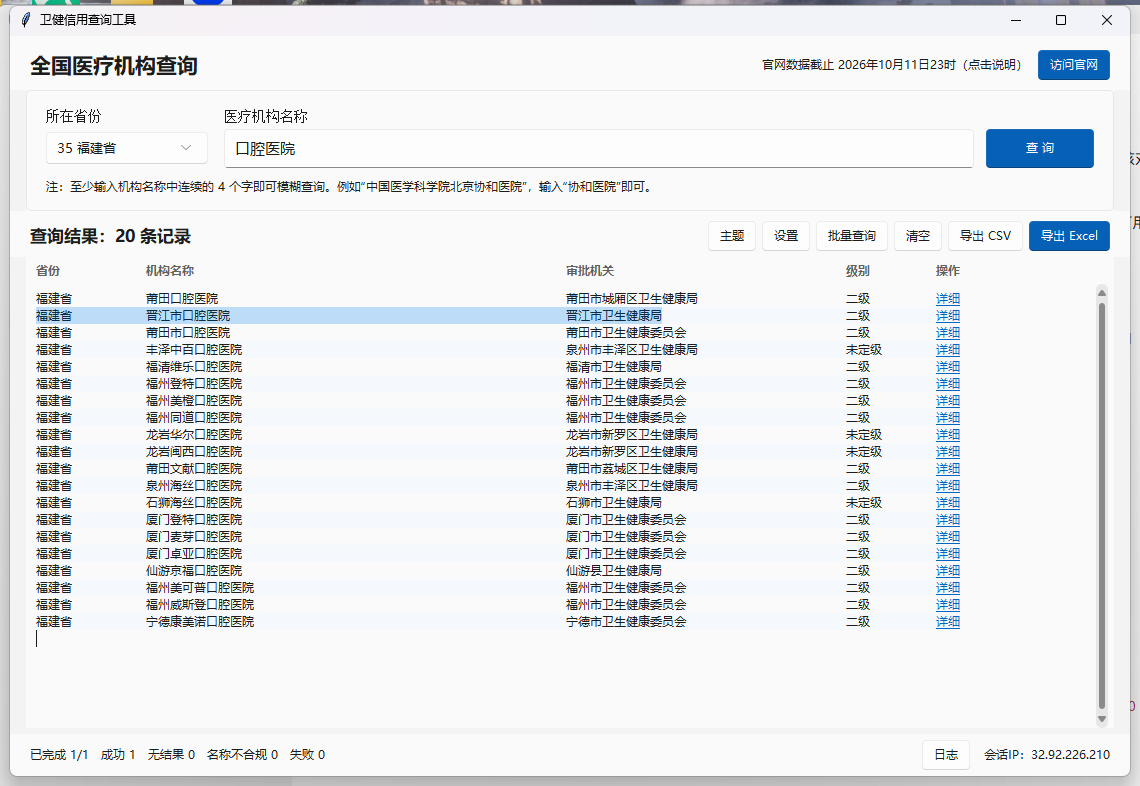
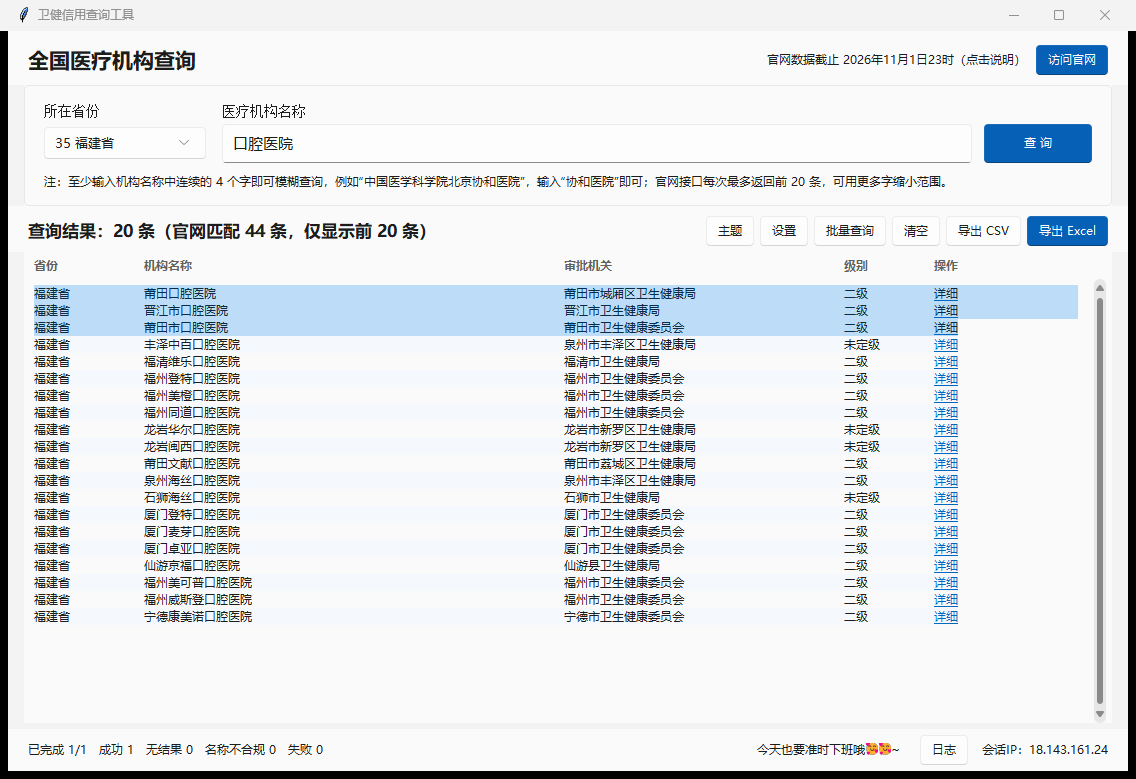
docs: 用真实查询数据重截界面截图（v1.1.3）
- ui_main / ui_select / ui_log：更新为当前版本（含截断提示、底栏小字）
- ui_detail_approve / ui_detail_filing：新详情窗（栏目分割线 + 彩色科室图标 + 底部按钮）
- ui_progress.png -> ui_busy.png：进度已改为窗内覆盖层，旧弹窗截图删除
- README / 使用说明 同步引用

Changed region(s): [[0.0, 0.0, 1.0, 1.0], [0.8627, 0.154, 0.9551, 0.2157]]

diff --git a/README.md b/README.md
@@ -60,7 +60,7 @@
 
 | 查询进度（窗内覆盖） | 设置 | 运行日志 |
 |---|---|---|
-| ![进度](docs/images/ui_progress.png) | ![设置](docs/images/ui_settings.png) | ![日志](docs/images/ui_log.png) |
+| ![进度](docs/images/ui_busy.png) | ![设置](docs/images/ui_settings.png) | ![日志](docs/images/ui_log.png) |
 
 | 顶部：数据截止时间 + 访问官网 | 结果可拖动选中 / 复制 |
 |---|---|

diff --git a/docs/使用说明.md b/docs/使用说明.md
@@ -13,7 +13,7 @@
 
 | 查询进度（窗内覆盖） | 设置 | 运行日志 |
 |---|---|---|
-| ![进度](images/ui_progress.png) | ![设置](images/ui_settings.png) | ![日志](images/ui_log.png) |
+| ![进度](images/ui_busy.png) | ![设置](images/ui_settings.png) | ![日志](images/ui_log.png) |
 
 ---
 
